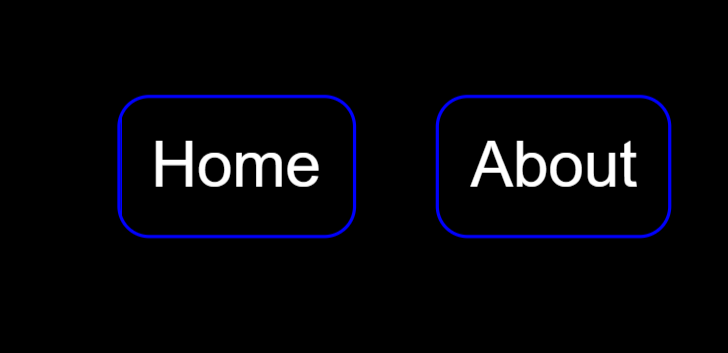
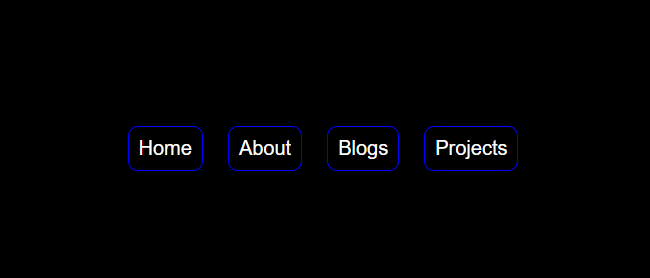
updated thumbnails

diff --git a/index.html b/index.html
@@ -12,7 +12,7 @@
       rel="stylesheet">
   </head>
   <body>
-
+    
     <div class="flex flex-col center">
       <div id="mode">
         <div id="light"><img id="lightIcon" width="16px" height="16px" src="assets/icons8-sun.svg"/></div>
@@ -80,10 +80,10 @@
                 <div class="icon-border ">
                   <img
                     src="assets/icons8-tailwindcss.svg"
-                    class="skill-icons"
+                    class="skill-icons h5-icon"
                     />
                 </div> 
-                <div class="skill-name">Tailwind</div>
+                <div class="skill-name  ">Tailwind</div>
                 <div class="icon-border tl">
                   <img src="assets/icons8-css3 (1).svg" class="skill-icons " />
                 </div>
@@ -186,7 +186,7 @@
             <div class="proj2-contents flex flex-col">
               <div class="flex flex-col inter-gap">
                 <img class="proj2-thumbnail"
-                  src="assets/coolHue-FDEB71-F8D800.png"/>
+                  src="assets/pswdGntr.png"/>
                   <div class="link-name-parent flex ver-center">
                 <div class="proj2-name">Pswd Gntr</div>
                 <a href="https://transcendent-peony-bddcfa.netlify.app" target="_blank"><img class="link-icon" src="assets/icons8-external-link.svg"></img></a>
@@ -194,15 +194,15 @@
               </div>
               <div class="flex flex-col inter-gap">
                 <img class="proj2-thumbnail"
-                  src="/assets/coolHue-90F7EC-32CCBC.png" />
+                  src="/assets/scoreboard.png" />
                   <div class="link-name-parent flex ver-center">
                 <div class="proj2-name">ScoreBoard</div>
-                <a href="https://transcendent-peony-bddcfa.netlify.app" target="_blank"><img class="link-icon" src="assets/icons8-external-link.svg"></img></a>
+                <a href="https://lively-bubblegum-a9ba71.netlify.app" target="_blank"><img class="link-icon" src="assets/icons8-external-link.svg"></img></a>
 
                 </div>
               </div>
               <div class="flex flex-col inter-gap">
-                <img   class="proj2-thumbnail " src="/assets/coolHue-CE9FFC-7367F0.png"
+                <img   class="proj2-thumbnail " src="/assets/qrCode.png"
                   />
                   <div class="link-name-parent flex ver-center">
                   <div class="proj2-name">QRcode</div>
@@ -211,11 +211,11 @@
                 </div>
               </div>
               <div class="flex flex-col inter-gap">
-                <img   class="proj2-thumbnail " src="/assets/coolHue-ABDCFF-0396FF.png"
+                <img   class="proj2-thumbnail " src="assets/unitconversion.png"
                   />
                   <div class="link-name-parent flex ver-center">
                   <div class="proj2-name proj2-name">Unit Conversion</div>
-                  <a  target="_blank"><img class="link-icon" src="assets/icons8-external-link.svg"></img></a>
+                  <a href="https://amazing-conkies-ffaade.netlify.app" target="_blank"><img class="link-icon" src="assets/icons8-external-link.svg"></img></a>
 
                 </div>
               </div>
@@ -225,7 +225,7 @@
           <div id="tool" class="grid-items item8 flex flex-col ">
             <div id="toolHeading">Tools I Use</div>
 
-            <div class="tool-used-lists grid">
+            <div class="tool-used-lists grid center">
               <div class="tool-border tool-1">
                 <img src="assets/icons8-figma 1.svg" class="tool-icons" />
               </div>
@@ -269,10 +269,10 @@
                 <img src="assets/peerlist.png"
                   class="tool-icons"/>
               </div>
-              <div class="tool-border tool-12">
+              <!-- <div class="tool-border tool-12">
                 <img src="assets/icons8-notion.svg"
                   class="tool-icons"/>
-              </div>
+              </div> -->
             </div>
           </div>
           <div id="techtips" class="grid-items item13 flex flex-col">
@@ -323,20 +323,22 @@
             </div>
             <a href="https://twitter.com/arunprasanthm7"
               target="_blank" id="socialMediaBtn">
-              Got to my twitter ->
+              Got to my twitter -></a>
             </div>
           </div>
-        </div>
+        
         
       </div>
-      <div class="footer flex ver-center">
+      <div class="footer flex-col ">
       
-       <div href="mailto:arunprasanthm7@gmail.com" class="mail-ID">arunprasanthm7@gmail.com</div>
-       <div class="flex">
-        <div class="credit">Built by</div>
-        <div class="Dev-name">Arun Prasanth</div>
+        <div  class="mail-id" href="mailto:arunprasanthm7@gmail.com">arunprasanthm7@gmail.com</div>
+        <div class="flex-col">
+         <div class="credit">Built by</div>
+         <div class="Dev-name">Arun Prasanth</div>
+        </div>
        </div>
-      </div>
+    </div>
+    
       <script src="index.js"></script>
     </body>
   </html>
@@ -351,11 +353,3 @@
 
 
 
-
-  <!-- <div id="interCont" class="inter-contents flex flex-col">
-  <div class="inter-cards flex ver-center"><img src="assets/coolHue-CE9FFC-7367F0.png" class="interactions-thumbnail"/><div class="inter-name">Nav-Menu</div><div class="inter-links"><img class="inter-links-icon" src="assets/icons8-external-link.svg"/></div></div>
-  <a id="nightModeCard" href="https://codepen.io/arunprasanthm7/pen/YzOdMGm" target="_blank" class="inter-cards flex ver-center"><img src="assets/night-mode.png" class="interactions-thumbnail"/><div class="inter-name">Night Mode</div><div class="inter-links"><img class="inter-links-icon" src="assets/icons8-external-link.svg"/></div></a>
-  <a href="https://codepen.io/arunprasanthm7/pen/GRXPVNg" target="_blank" class="inter-cards flex ver-center"><img src="assets/slider.png" class="interactions-thumbnail"/><div class="inter-name">Image Slider</div><div class="inter-links"><img class="inter-links-icon" src="assets/icons8-external-link.svg"/></div></a>
-  <a href="https://codepen.io/arunprasanthm7/pen/rNZRdgj" target="_blank" class="inter-cards flex ver-center"><img src="assets/bg-hover.png" class="interactions-thumbnail"/><div class="inter-name">BG-Color Hover</div><div class="inter-links"><img class="inter-links-icon" src="assets/icons8-external-link.svg"/></div></a>
-  <a href="https://codepen.io/arunprasanthm7/pen/jOvJzZg" target="_blank" class="inter-cards flex ver-center"><img src="assets/underline.png" class="interactions-thumbnail"/><div class="inter-name">UnderLine Hover</div><div class="inter-links"><img class="inter-links-icon" src="assets/icons8-external-link.svg"/></div> </a>
-</div> -->

diff --git a/index.css b/index.css
@@ -68,7 +68,7 @@ body {
   border-radius: 20px;
   transition: 0.6s;
   transform: translate(1000%, 80%);
-  background-color: rgb(218, 218, 218);
+  background-color: rgb(171, 170, 170);
 }
 
 #light {
@@ -217,6 +217,7 @@ body {
   width: 480px;
   text-align: left;
   opacity: 0.5;
+  color:var(--black)
 }
 .gap-bio {
   gap: 30px;
@@ -329,10 +330,10 @@ body {
   border-radius: 8px;
   padding: 8.5px;
 }
-/* .h5:hover  .h5-icon{
+/* .h5:hover #h5-icon{
   box-shadow: 1px 1px 8px rgb(212, 209, 209);
 } */
-.icon-border:hover {
+.icon-border {
   box-shadow: 1px 1px 8px rgb(212, 209, 209);
 }
 .tool-border {
@@ -371,15 +372,19 @@ height: 160px;
 }
 /*tool*/
 .tool-used-lists {
-  padding: 0px 147px;
-  justify-content: space-evenly;
+  /* padding: 0px 147px;
+  justify-content: space-evenly; */
+  
+  grid-template-columns: repeat(4,auto);
+  grid-template-rows: repeat(3,auto);
+  gap: 10px;
 }
 #tool {
   padding: 20px 0px;
-  gap: 30px;
+  justify-content: space-around;
   color: var(--black);
 }
-.tool-1,
+/* .tool-1,
 .skill-1 {
   transform: translate(-87px, 69px);
   transition: 0.4s;
@@ -431,8 +436,8 @@ height: 160px;
 .tool-12 {
   transform: translate(-21px, -543px);
   transition: 0.4s;
-}
-#tool:hover .tool-1 {
+} */
+/* #tool:hover .tool-1 {
   transform: translate(-67px, 17px);
   transition: 0.4s;
 }
@@ -479,7 +484,7 @@ height: 160px;
 #tool:hover .tool-12 {
   transform: translate(34px, -531px);
   transition: 0.4s;
-}
+} */
 
 /*interaction*/
 #interaction {
@@ -536,11 +541,11 @@ height: 160px;
   width: 80px;
   height: 80px;
 }
-.social-media-box:hover .icon-rotate {
+.social-media-box:hover > .icon-rotate {
   transform: rotate(-20deg) translateY(-16px);
   transition: 0.6s;
 }
-.social-media-box:hover #socialMediaBtn {
+.social-media-box:hover > #socialMediaBtn {
   font-size: 14px;
   font-weight: 600;
   color: white;
@@ -667,15 +672,11 @@ a {
   border-radius: 8px;
   font-weight: 500;
 }
-.inter-name-last,
-.proj2-name-last {
-  margin-bottom: 50px;
-}
+
 .inter-name,
 .proj2-name {
   font-size: 14px;
-}
-#blur {
+  opacity: 0.7;
 }
 #interBtn,
 #proj2Btn {
@@ -705,18 +706,16 @@ a {
   transform: translateX(12px);
   transition: 0.4s;
 }
-.credit{
+.credit,.dev-name{
   font-size: 14px;
   font-weight: 600;
+  font-weight: 500;
   margin-right: 8px;
 }
-.dev-name{
-  font-size: 14px;
-  font-weight: 500;
-}
 .footer{
-  justify-content: space-around;
+justify-self:space-around;
 margin-bottom: 70px;
+
 }
 .mail-id{
   font-size: 14px;
